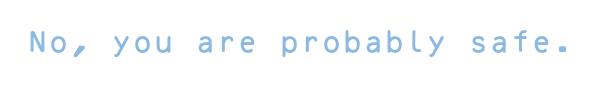
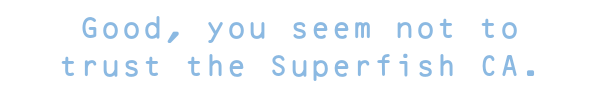
better no wording

Changed region(s): [[0.03, 0.1647, 0.96, 0.8706]]

diff --git a/index.html b/index.html
@@ -155,7 +155,7 @@ h1 {
             Check below. If you see an image with "YES" written on it,<br>you have a problem.
         </p>
         <p style="text-align: center">
-            <img src="https://badfish.filippo.io/yes.png" onerror="this.onload=''; this.alt='No, you are probably safe'; this.src='no.png'; this.style='width: 500px'; ga('send', 'event', 'Result', 'Negative', {'nonInteraction': 1});" style="width: 300px" onload="this.alt='Yes, your connections can be tampered with'; ga('send', 'event', 'Result', 'Positive', {'nonInteraction': 1});">
+            <img src="https://badfish.filippo.io/yes.png" onerror="this.onload=''; this.alt='Good, you seem not to trust the Superfish CA.'; this.src='no.png'; this.style='width: 500px'; ga('send', 'event', 'Result', 'Negative', {'nonInteraction': 1});" style="width: 300px" onload="this.alt='Yes, your connections can be tampered with!'; ga('send', 'event', 'Result', 'Positive', {'nonInteraction': 1});">
         </p>
 
         <p>
